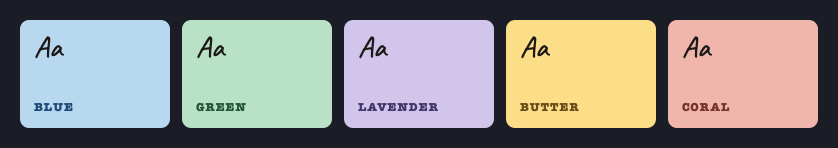
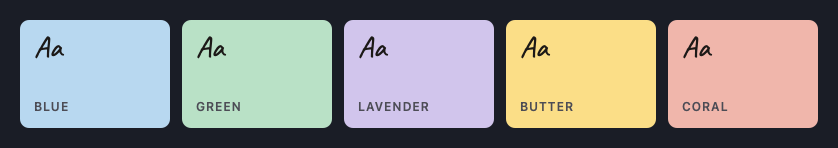
Match the tabs to the drawing they were designed from
Asked to match the reference exactly — font, ink, opacity, background,
borders — so it was sampled rather than eyeballed. A script reads the
reference's pixels and the app's own render with the same code, which is
the only way "closer" means anything.

What it found: the papers already match, butter to the byte (#F9DE93 in
the drawing, #F9DF94 here). The ink did not. The reference's labels carry
almost no colour — #6A7C89 on blue, #8B7D46 on butter, grey that has been
breathed on by the paper under it — while Ledge used a saturated version
of each paper, which reads as a coloured chip rather than pencil.

Solving the blend three channels at a time puts the reference's ink at
~64% of the way to a neutral slate. So: one slate for every paper, an
uppercase letterspaced sans in place of the typewriter face, and tabs that
poke out by up to 12 pt rather than 2.5, which is what makes a stack read
as paper rather than as a segmented control.

The reference cannot be matched exactly, and the number says why: its ink
measures 2.5–3.2:1 against its own paper. The app requires 4.5:1 and has a
check that enforces it. #4C4C56 is the lightest neutral that clears it on
all five papers — the same character, dark enough to read. The drawing was
a drawing; nobody had to read it in the sun.

Two things I got wrong on the way, both recorded because they are the same
mistake twice. The first solver was fed papers I typed from memory instead
[…]

diff --git a/Sources/LedgeCore/Jitter.swift b/Sources/LedgeCore/Jitter.swift
@@ -17,6 +17,16 @@ import Foundation
 /// fight — the visible overlap drifts outside its range. Protrusion is the axis
 /// that is genuinely free.
 public struct Jitter: Sendable, Equatable {
+
+    /// How far a tab may poke out past its neighbours, in points.
+    ///
+    /// This is what makes a stack read as paper rather than as a segmented
+    /// control, so it is deliberately large. Named here because the geometry
+    /// checks assert against it: it used to be a literal in this file and a
+    /// second literal in the check, and the second one does not move when you
+    /// change the first.
+    public static let maxProtrusion: Double = 12
+
     public let tabRotation: Double     // degrees, tab against the edge
     public let tabProtrusion: Double   // points this tab pokes out past its neighbours
     public let tabOverlap: Double      // points this tab bites into the one above
@@ -29,7 +39,7 @@ public struct Jitter: Sendable, Equatable {
     public init(id: String) {
         var rng = SplitMix64(seed: Jitter.seed(id))
         tabRotation   = rng.symmetric(0.6)
-        tabProtrusion = rng.range(0, 2.5)
+        tabProtrusion = rng.range(0, Jitter.maxProtrusion)
         tabOverlap    = rng.range(2.0, 5.0)
         cardRotation  = rng.symmetric(1.4)
         cardOffsetX   = rng.symmetric(2.0)

diff --git a/Sources/LedgeApp/Design/Palette.swift b/Sources/LedgeApp/Design/Palette.swift
@@ -34,14 +34,16 @@ enum Palette {
     /// A tab's label is written in a deep version of the note's own hue, not in
     /// neutral ink. It is what stops the deck reading as coloured plastic with
     /// black type on it.
+    /// One slate for every paper.
+    ///
+    /// It used to be a saturated version of each colour, which made a tab read
+    /// as a coloured chip. Sampling the reference the deck is drawn after gives
+    /// ink of almost no chroma — #6A7C89 on blue, #8B7D46 on butter — grey that
+    /// has merely been breathed on by the paper under it. This is that, dark
+    /// enough to stay legible: the reference's own ink measures 2.5–3.2:1
+    /// against its paper, and 4.5:1 is where text stops being a decoration.
     static func labelInk(_ color: NoteColor) -> NSColor {
-        switch color {
-        case .blue:     return .srgb(0x1B4B78)
-        case .green:    return .srgb(0x1C5836)
-        case .lavender: return .srgb(0x46326F)
-        case .butter:   return .srgb(0x6A4C10)
-        case .coral:    return .srgb(0x78302A)
-        }
+        .srgb(0x4C4C56)
     }
 
     /// The strip down a card's leading edge: the paper, a shade deeper, so the

diff --git a/Sources/LedgeApp/VerticalLabel.swift b/Sources/LedgeApp/VerticalLabel.swift
@@ -10,13 +10,11 @@ enum VerticalLabel {
 
     /// A typewriter face, not the UI sans. The labels are part of the paper.
     static func font(size: CGFloat) -> NSFont {
-        NSFont(name: "AmericanTypewriter-Bold", size: size)
-            ?? NSFont(name: "AmericanTypewriter", size: size)
-            ?? .monospacedSystemFont(ofSize: size, weight: .semibold)
+        .systemFont(ofSize: size, weight: .semibold)
     }
 
     static func attributes(size: CGFloat, color: NSColor) -> [NSAttributedString.Key: Any] {
-        [.font: font(size: size), .foregroundColor: color, .kern: size * 0.08]
+        [.font: font(size: size), .foregroundColor: color, .kern: size * 0.15]
     }
 
     /// Fits `text` into `available` points of run length, with an ellipsis when

diff --git a/Sources/LedgeApp/SelfTest.swift b/Sources/LedgeApp/SelfTest.swift
@@ -2170,7 +2170,7 @@ enum SelfTest {
         check(fan.tabs.count > 1, "the demo folder has a deck to fan")
         check(fan.tabs.allSatisfy { mirrored ? abs($0.minX) < 0.5 : abs($0.maxX - fan.panel.width) < 0.5 },
               "every tab is flush with the screen edge")
-        check(fan.tabs.allSatisfy { $0.width >= Metrics.Tab.width && $0.width <= Metrics.Tab.width + 2.5 },
+        check(fan.tabs.allSatisfy { $0.width >= Metrics.Tab.width && $0.width <= Metrics.Tab.width + Metrics.z(CGFloat(Jitter.maxProtrusion)) + 0.5 },
               "tabs are \(Int(Metrics.Tab.width)) pt wide, plus their own protrusion")
         let lengths = fan.tabs.map(\.height)
         let floor = Metrics.Tab.width * 0.9

diff --git a/Sources/LedgeTests/CoreTests.swift b/Sources/LedgeTests/CoreTests.swift
@@ -214,7 +214,8 @@ enum CoreTests {
                 c.expect(abs(j.cardRotation) <= 1.4, "card rotation \(j.cardRotation)")
                 c.expect(abs(j.tabRotation) <= 0.6, "tab rotation \(j.tabRotation)")
                 c.expect(j.tabOverlap >= 2 && j.tabOverlap <= 5, "overlap \(j.tabOverlap)")
-                c.expect(j.tabProtrusion >= 0 && j.tabProtrusion <= 2.5, "protrusion \(j.tabProtrusion)")
+                c.expect(j.tabProtrusion >= 0 && j.tabProtrusion <= Jitter.maxProtrusion,
+                         "protrusion \(j.tabProtrusion)")
                 c.expect(j.shadowScale >= 0.85 && j.shadowScale <= 1.15, "shadow \(j.shadowScale)")
             }
         }
